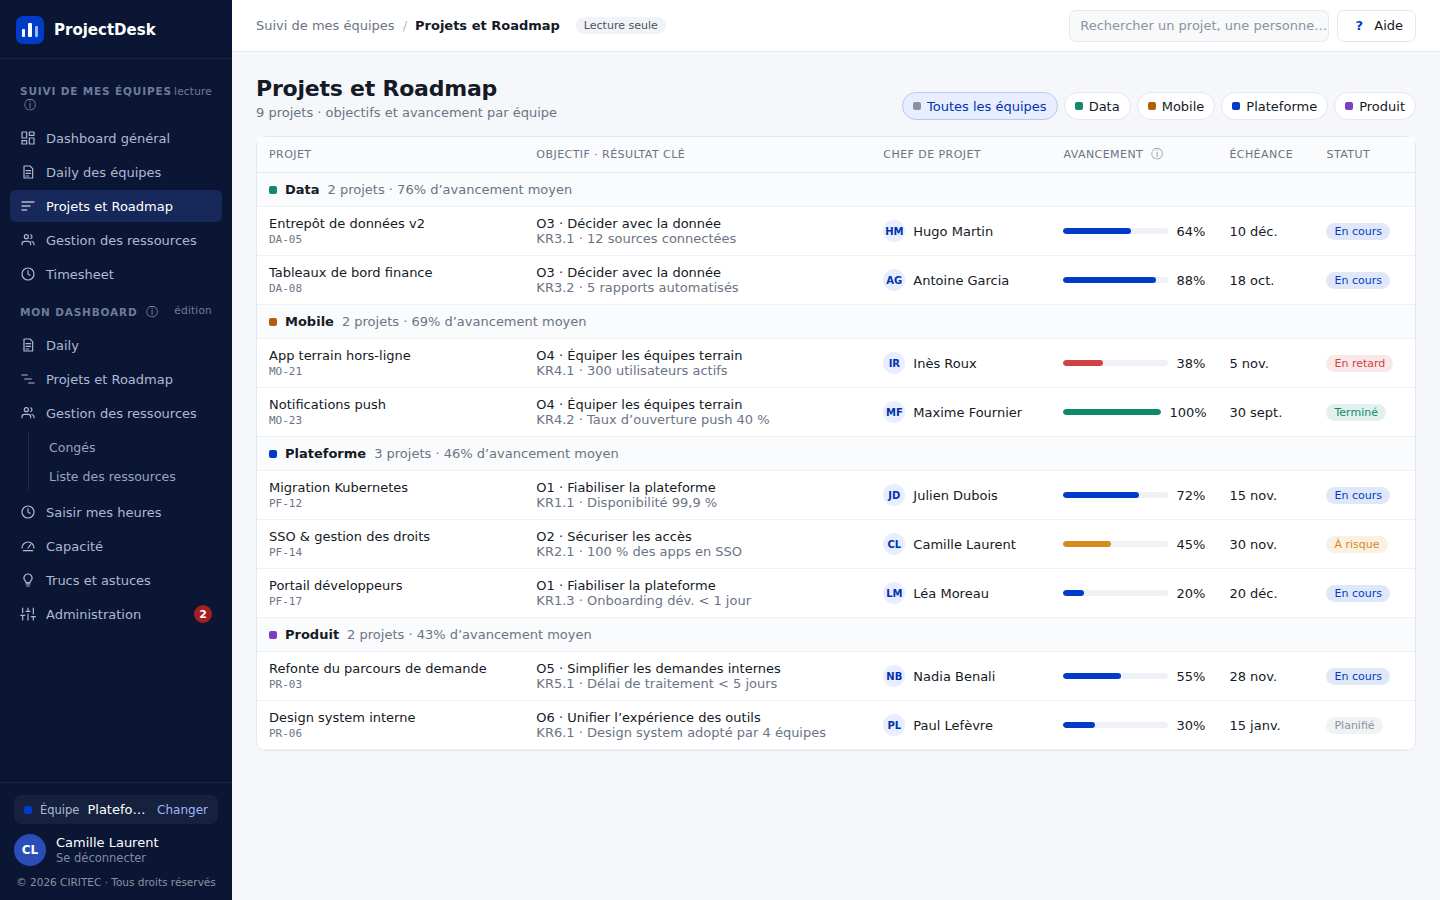
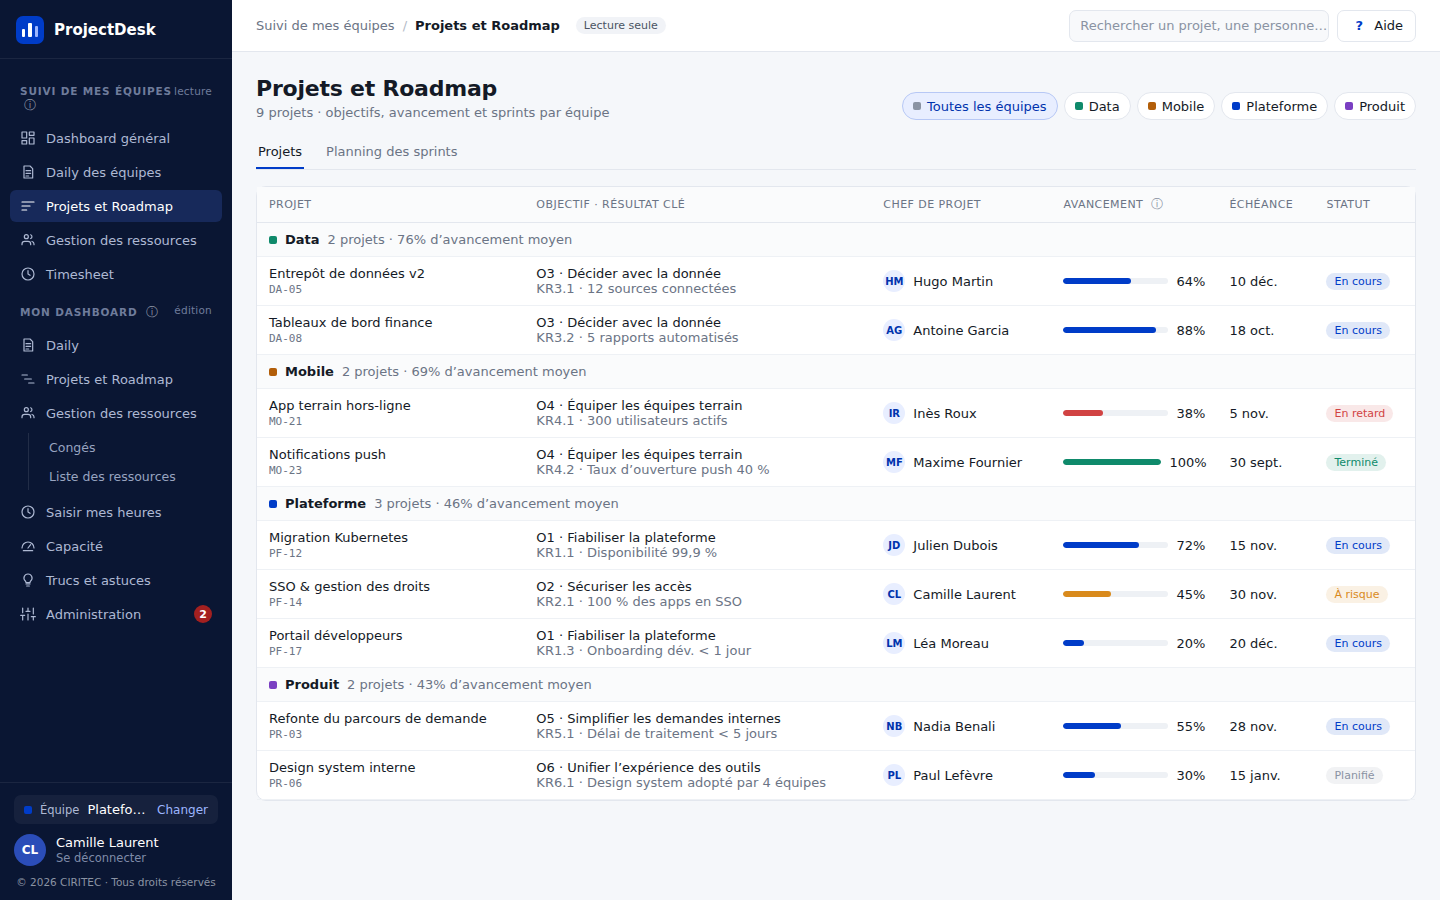
Planning des sprints dans Suivi › Projets et Roadmap (2.32)
Onglets Projets / Planning des sprints : sprints datés de chaque projet
sur une frise de 6 mois, sprint en cours en bleu, navigation par mois.
Lecture seule, base inchangée. Roadmap et Mon dashboard reportés ;
Planning des MEP en attente (source des données à décider).

Claude-Session: https://claude.ai/code/session_0187v8SY8uiT6dnWqjjqJYb6

diff --git a/app/js/ecrans/projets.js b/app/js/ecrans/projets.js
@@ -1,8 +1,9 @@
 /* ============================================================
    Suivi de mes équipes › Projets et Roadmap (maquette 02-gProjets.png) — lecture
-   Projets groupés par équipe, filtre par équipe (notion de ticket retirée
-   de l'application à la demande du porteur, 2026-09-27).
-   Un clic sur un projet ouvre le panneau de détail.
+   Onglets (porteur 2026-10-23, maquette roadmap-mep-sprints/) :
+   - Projets : projets groupés par équipe, filtre par équipe (notion de ticket retirée de
+     l'application à la demande du porteur, 2026-09-27) ; un clic ouvre le panneau de détail ;
+   - Planning des sprints : les sprints de chaque projet sur une frise de 6 mois (PlanningSprints).
    ============================================================ */
 'use strict';
 
@@ -10,30 +11,34 @@ Ecrans.projets = {
   titre: 'Projets et Roadmap',
   section: 'general',
   rendre() {
-    const esc = C.esc;
-    const u = ui('projets', { equipe: 'toutes' });
-    const { projets, equipes } = etat.d;
-
+    const esc = C.esc, u = ui('projets', { equipe: 'toutes', onglet: 'projets' });
     const puce = (id, nom, couleur) => `<button class="puce${u.equipe === id ? ' active' : ''}" data-action="filtrerEquipeProjets" data-id="${id}">
       ${C.pastille(couleur)}${esc(nom)}</button>`;
-    const filtres = puce('toutes', 'Toutes les équipes', COULEURS.pale) + equipes.map(e => puce(e.id, e.nom, e.couleur)).join('');
+    const filtres = puce('toutes', 'Toutes les équipes', COULEURS.pale) + etat.d.equipes.map(e => puce(e.id, e.nom, e.couleur)).join('');
+    // Projets des équipes filtrées (le filtre vaut pour les deux onglets)
+    const projets = etat.d.projets.filter(p => u.equipe === 'toutes' || p.equipeId === u.equipe);
+    const onglets = C.onglets([{ id: 'projets', libelle: 'Projets' }, { id: 'sprints', libelle: 'Planning des sprints' }], u.onglet, 'ongletProjets');
+    return `
+    <div class="ecran">
+      ${C.entete('Projets et Roadmap', `${etat.d.projets.length} projets · objectifs, avancement et sprints par équipe`, `<div class="puces">${filtres}</div>`)}
+      ${onglets}${u.onglet === 'sprints' ? PlanningSprints.rendre(projets) : this.tableau(u)}
+    </div>`;
+  },
 
-    const lignes = equipes.filter(e => u.equipe === 'toutes' || e.id === u.equipe).map(e => {
-      const siens = projets.filter(p => p.equipeId === e.id);
+  // Onglet Projets : tableau des projets groupés par équipe
+  tableau(u) {
+    const esc = C.esc;
+    const lignes = etat.d.equipes.filter(e => u.equipe === 'toutes' || e.id === u.equipe).map(e => {
+      const siens = etat.d.projets.filter(p => p.equipeId === e.id);
       if (!siens.length) return '';
       return `<tr class="groupe"><td colspan="6"><span class="ligne-flex">${C.pastille(e.couleur)}${esc(e.nom)}
           <span class="discret poids-normal">${siens.length} projets · ${Calculs.pourcent(Calculs.avancementMoyen(siens))} d’avancement moyen</span></span></td></tr>`
         + siens.map(p => this.ligneProjet(p)).join('');
     }).join('');
-
-    return `
-    <div class="ecran">
-      ${C.entete('Projets et Roadmap', `${projets.length} projets · objectifs et avancement par équipe`, `<div class="puces">${filtres}</div>`)}
-      <div class="carte"><table class="tableau">
+    return `<div class="carte"><table class="tableau">
         <thead><tr><th>Projet</th><th>Objectif · Résultat clé</th><th>Chef de projet</th><th>Avancement ${C.aide('avancementProjet')}</th>
           <th>Échéance</th><th>Statut</th></tr></thead>
-        <tbody>${lignes || `<tr><td colspan="6">${C.vide('Aucun projet.')}</td></tr>`}</tbody></table></div>
-    </div>`;
+        <tbody>${lignes || `<tr><td colspan="6">${C.vide('Aucun projet.')}</td></tr>`}</tbody></table></div>`;
   },
 
   // Ligne d'un projet (un clic ouvre le panneau de détail)
@@ -52,6 +57,68 @@ Ecrans.projets = {
   }
 };
 
+/* ---------- Onglet Planning des sprints (maquette roadmap-mep-sprints/3-planning-sprints.png) ----------
+   Une ligne par projet qui a des sprints sur la période, ses sprints en blocs « S12 » sur une frise de 6 mois ;
+   sprint en cours en bleu, trait vertical = aujourd'hui, version et dates au survol. Les sprints sont ceux saisis
+   dans Mon dashboard › Administration › Sprints (sprintsDuProjet, etat.js). Période : 6 mois à partir du mois
+   précédent le mois en cours, décalable mois par mois (‹ Aujourd'hui ›). */
+const PlanningSprints = {
+  NB_MOIS: 6,
+  // Premier jour de la période affichée (ISO) : choisi par les flèches, sinon le 1er du mois précédent
+  debut() {
+    const choisi = ui('planningSprints', {}).debut;
+    if (choisi) return choisi;
+    const d = Calculs.depuisIso(Calculs.aujourdhui());
+    return Calculs.versIso(new Date(d.getFullYear(), d.getMonth() - 1, 1));
+  },
+  // Période : début, fin (dernier jour du 6e mois), nombre de jours et en-tête des mois
+  periode() {
+    const d = Calculs.depuisIso(this.debut()), debut = this.debut();
+    const fin = Calculs.versIso(new Date(d.getFullYear(), d.getMonth() + this.NB_MOIS, 0)), total = Calculs.ecartJours(debut, fin) + 1;
+    const mois = Array.from({ length: this.NB_MOIS }, (_, i) => new Date(d.getFullYear(), d.getMonth() + i, 1)).map(m => {
+      const nbJours = new Date(m.getFullYear(), m.getMonth() + 1, 0).getDate();
+      return `<div style="width:${nbJours / total * 100}%">${Calculs.MOIS_COURTS[m.getMonth()]} ${String(m.getFullYear()).slice(2)}</div>`;
+    }).join('');
+    return { debut, fin, total, mois, position: iso => Math.max(0, Math.min(100, Calculs.ecartJours(debut, iso) / total * 100)) };
+  },
+  // Bloc d'un sprint : « S » + numéro de sprint, sprint en cours mis en avant, version et dates en infobulle
+  bloc(s, per, jour) {
+    const g = per.position(s.debut), l = Math.max(per.position(s.fin) - g, 0.5), numero = s.numeroSprint || s.numero;
+    const titre = `Sprint ${numero}${s.nom ? ' · ' + s.nom : ''} : ${Calculs.formatCourt(s.debut)} → ${Calculs.formatCourt(s.fin)}`;
+    return `<div class="gantt-sprint${s.debut <= jour && jour <= s.fin ? ' en-cours' : ''}" style="left:${g}%;width:${l}%"
+      title="${C.esc(titre)}">S${numero}</div>`;
+  },
+  // Navigation de période et rappel de l'endroit où les sprints se saisissent
+  navigation(per) {
+    return `<div class="ligne-flex entre encart-compact"><div class="ligne-flex">
+        <button class="btn" data-action="planningSprintsAujourdhui">Aujourd’hui</button>
+        <button class="btn" data-action="planningSprintsDecaler" data-sens="-1">‹</button>
+        <b>${Calculs.libelleMois(...this.anneeMois(per.debut))} → ${Calculs.libelleMois(...this.anneeMois(per.fin))}</b>
+        <button class="btn" data-action="planningSprintsDecaler" data-sens="1">›</button></div>
+      <span class="discret texte-12">Sprints saisis dans Mon dashboard › Administration › Sprints</span></div>`;
+  },
+  anneeMois(iso) { const d = Calculs.depuisIso(iso); return [d.getFullYear(), d.getMonth()]; },
+
+  rendre(projets) {
+    const per = this.periode(), jour = Calculs.aujourdhui();
+    const lignes = projets.map(p => ({ p, sprints: sprintsDuProjet(p.id).filter(s => s.debut <= per.fin && s.fin >= per.debut) }))
+      .filter(x => x.sprints.length).map(({ p, sprints }) => `<div class="gantt-ligne"><div><div>${C.code(p.code)} ${C.esc(p.nom)}</div></div>
+        <div class="gantt-piste">${jour >= per.debut && jour <= per.fin ? `<div class="gantt-jour" style="left:${per.position(jour)}%"></div>` : ''}
+          ${sprints.map(s => this.bloc(s, per, jour)).join('')}</div></div>`).join('');
+    return `${this.navigation(per)}
+      <div class="carte planning-sprints"><div class="gantt-mois"><div class="libelle gantt-titre-col">Projet</div><div class="mois">${per.mois}</div></div>
+        ${lignes || C.vide('Aucun sprint saisi sur cette période.')}</div>
+      <div class="discret texte-12"><span class="couleur-primaire">—</span> Aujourd’hui · en bleu : sprint en cours · survol : version et dates du sprint</div>`;
+  }
+};
+
 Object.assign(Actions, {
-  filtrerEquipeProjets: d => majUi('projets', { equipe: d.id })
+  filtrerEquipeProjets: d => majUi('projets', { equipe: d.id }),
+  ongletProjets: d => majUi('projets', { onglet: d.id }),
+  // Planning des sprints : décaler la période d'un mois, ou revenir à la période par défaut
+  planningSprintsDecaler(d) {
+    const m = Calculs.depuisIso(PlanningSprints.debut());
+    majUi('planningSprints', { debut: Calculs.versIso(new Date(m.getFullYear(), m.getMonth() + Number(d.sens), 1)) });
+  },
+  planningSprintsAujourdhui: () => majUi('planningSprints', { debut: null })
 });

diff --git a/app/index.html b/app/index.html
@@ -11,7 +11,7 @@
 <link href="https://fonts.googleapis.com/css2?family=IBM+Plex+Sans:wght@400;500;600;700&family=IBM+Plex+Mono:wght@400;500&display=swap" rel="stylesheet">
 <!-- ?v= : version des fichiers (= version du DAT), à changer à chaque livraison : force le navigateur
      à recharger le code au lieu de réutiliser une ancienne copie en mémoire. -->
-<link rel="stylesheet" href="css/theme.css?v=2.31">
+<link rel="stylesheet" href="css/theme.css?v=2.32">
 </head>
 <body>
   <!-- Toute l'interface est dessinée dans #app par js/coquille.js et js/ecrans/*.js -->
@@ -19,33 +19,33 @@
   <div id="notification" class="notification" role="status"></div>
 
   <!-- Ordre de chargement : configuration, outils, état, puis écrans (qui s'enregistrent dans Ecrans) -->
-  <script src="js/config.js?v=2.31"></script>
-  <script src="js/api.js?v=2.31"></script>
-  <script src="js/calculs.js?v=2.31"></script>
-  <script src="js/etat.js?v=2.31"></script>
-  <script src="js/composants.js?v=2.31"></script>
-  <script src="js/coquille.js?v=2.31"></script>
-  <script src="js/panneau-projet.js?v=2.31"></script>
-  <script src="js/modale.js?v=2.31"></script>
-  <script src="js/excel.js?v=2.31"></script>
-  <script src="js/roles.js?v=2.31"></script>
-  <script src="js/simulation.js?v=2.31"></script>
-  <script src="js/ecrans/connexion.js?v=2.31"></script>
-  <script src="js/ecrans/choix-equipe.js?v=2.31"></script>
-  <script src="js/ecrans/dashboard.js?v=2.31"></script>
-  <script src="js/ecrans/projets.js?v=2.31"></script>
-  <script src="js/ecrans/ressources.js?v=2.31"></script>
-  <script src="js/ecrans/administration.js?v=2.31"></script>
-  <script src="js/ecrans/timesheet.js?v=2.31"></script>
-  <script src="js/ecrans/daily-equipes.js?v=2.31"></script>
-  <script src="js/ecrans/daily.js?v=2.31"></script>
-  <script src="js/ecrans/mes-projets.js?v=2.31"></script>
-  <script src="js/ecrans/conges.js?v=2.31"></script>
-  <script src="js/ecrans/capacite.js?v=2.31"></script>
-  <script src="js/ecrans/liste-ressources.js?v=2.31"></script>
-  <script src="js/ecrans/mon-timesheet.js?v=2.31"></script>
-  <script src="js/ecrans/previsionnel.js?v=2.31"></script>
-  <script src="js/ecrans/mon-admin.js?v=2.31"></script>
-  <script src="js/ecrans/astuces.js?v=2.31"></script>
+  <script src="js/config.js?v=2.32"></script>
+  <script src="js/api.js?v=2.32"></script>
+  <script src="js/calculs.js?v=2.32"></script>
+  <script src="js/etat.js?v=2.32"></script>
+  <script src="js/composants.js?v=2.32"></script>
+  <script src="js/coquille.js?v=2.32"></script>
+  <script src="js/panneau-projet.js?v=2.32"></script>
+  <script src="js/modale.js?v=2.32"></script>
+  <script src="js/excel.js?v=2.32"></script>
+  <script src="js/roles.js?v=2.32"></script>
+  <script src="js/simulation.js?v=2.32"></script>
+  <script src="js/ecrans/connexion.js?v=2.32"></script>
+  <script src="js/ecrans/choix-equipe.js?v=2.32"></script>
+  <script src="js/ecrans/dashboard.js?v=2.32"></script>
+  <script src="js/ecrans/projets.js?v=2.32"></script>
+  <script src="js/ecrans/ressources.js?v=2.32"></script>
+  <script src="js/ecrans/administration.js?v=2.32"></script>
+  <script src="js/ecrans/timesheet.js?v=2.32"></script>
+  <script src="js/ecrans/daily-equipes.js?v=2.32"></script>
+  <script src="js/ecrans/daily.js?v=2.32"></script>
+  <script src="js/ecrans/mes-projets.js?v=2.32"></script>
+  <script src="js/ecrans/conges.js?v=2.32"></script>
+  <script src="js/ecrans/capacite.js?v=2.32"></script>
+  <script src="js/ecrans/liste-ressources.js?v=2.32"></script>
+  <script src="js/ecrans/mon-timesheet.js?v=2.32"></script>
+  <script src="js/ecrans/previsionnel.js?v=2.32"></script>
+  <script src="js/ecrans/mon-admin.js?v=2.32"></script>
+  <script src="js/ecrans/astuces.js?v=2.32"></script>
 </body>
 </html>

diff --git a/tests/parcours.js b/tests/parcours.js
@@ -108,6 +108,17 @@ const verifier = (nom, condition, detail = '') => { resultats.push({ nom, ok: !!
     await page.click('tr.cliquable[data-action="ouvrirProjet"]'); await page.waitForTimeout(200);
     verifier('Projets : panneau en lecture seule', (await texte()).includes('Vue « Suivi de mes équipes » en lecture seule'));
     await page.click('.fermer');
+    /* Projets et Roadmap › Planning des sprints (2026-10-23) : sprints datés de chaque projet sur une frise de 6 mois */
+    await page.evaluate(() => majUi('planningSprints', { debut: '2026-09-01' }));
+    await page.click('[data-action="ongletProjets"][data-id="sprints"]'); await page.waitForTimeout(150);
+    const blocsSprints = await page.$$eval('.planning-sprints .gantt-sprint', b => b.map(x => x.textContent.trim()));
+    await page.click('[data-action="planningSprintsDecaler"][data-sens="1"]'); await page.waitForTimeout(150);
+    const periodeSuivante = await page.textContent('.encart-compact b');
+    verifier('Projets et Roadmap › Planning des sprints : blocs S19 et S20 de PF-14, navigation par mois',
+      blocsSprints.includes('S19') && blocsSprints.includes('S20') && periodeSuivante.startsWith('octobre 2026'), blocsSprints.join(' ') + ' / ' + periodeSuivante);
+    await page.evaluate(() => majUi('planningSprints', { debut: '2026-09-01' })); await page.waitForTimeout(150);
+    await capture('04b-planning-sprints');
+    await page.click('[data-action="planningSprintsAujourdhui"]'); await page.click('[data-action="ongletProjets"][data-id="projets"]');
     await aller('ressources'); await page.click('[data-action="moisSuivant"]'); await capture('05-ressources');
     /* Gestion des ressources (2026-10-16) : onglets Calendrier / Liste des ressources, dates de naissance
        (jour et mois seulement à l'écran ; 🎂 dans le calendrier, rappel des anniversaires du mois) */
@@ -153,6 +164,7 @@ const verifier = (nom, condition, detail = '') => { resultats.push({ nom, ok: !!
       'filtrerDailyEquipes', 'dailyEquipesAujourdhui', 'dailyEquipesDecaler', 'filtrerPersonneDaily', 'ongletDailyEquipes',
       'choisirCaseDaily', 'fermerCaseDaily', 'decalerCaseDaily', 'vueCalendrier', 'projetCalendrier',
       'ongletRessources', 'filtrerEquipeRessources', 'filtrerStatutRessources', 'rechercherRessource',
+      'ongletProjets', 'planningSprintsDecaler', 'planningSprintsAujourdhui',
       'ouvrirExportDaily',    // export Excel : lecture seule (téléchargement de ce qui est affiché)
       'validerFeuille', 'renvoyerFeuille'];   // seule exception : validation des feuilles par le responsable (Timesheet)
     const ecritures = async () => page.$$eval('.contenu [data-action-change], .contenu [data-action-saisie], .contenu [data-action-envoi], .contenu [data-action]',
@@ -163,6 +175,8 @@ const verifier = (nom, condition, detail = '') => { resultats.push({ nom, ok: !!
       await aller(ecran);
       if (ecran === 'ressources') {
         for (const onglet of ['calendrier', 'liste']) { await page.click(`[data-action="ongletRessources"][data-id="${onglet}"]`); await page.waitForTimeout(150); interdites.push(...await ecritures()); }
+      } else if (ecran === 'projets') {
+        for (const onglet of ['sprints', 'projets']) { await page.click(`[data-action="ongletProjets"][data-id="${onglet}"]`); await page.waitForTimeout(150); interdites.push(...await ecritures()); }
 
       } else interdites.push(...await ecritures());
     }

diff --git a/app/css/theme.css b/app/css/theme.css
@@ -141,6 +141,12 @@ table.tableau { width: 100%; border-collapse: collapse; }
 .gantt-piste { position: relative; }
 .gantt-barre { position: absolute; top: 16px; height: 26px; border-radius: 5px; cursor: pointer; overflow: hidden; }
 .gantt-plein { height: 100%; color: #fff; font-weight: 600; font-size: 12px; padding: 5px 8px; white-space: nowrap; }
+.gantt-titre-col { padding: 9px 16px; margin: 0; }
+/* Planning des sprints (Suivi › Projets et Roadmap, 2026-10-23) : un bloc par sprint sur la piste du projet */
+.gantt-sprint { position: absolute; top: 18px; height: 22px; border-radius: 3px; background: var(--fond-entete);
+  border: 1px solid var(--bordure); font-size: 10px; line-height: 20px; text-align: center; color: var(--discret); overflow: hidden; white-space: nowrap; }
+.gantt-sprint.en-cours { background: var(--primaire); border-color: var(--primaire); color: #fff; font-weight: 600; }
+.couleur-primaire { color: var(--primaire); }
 .gantt-jour { position: absolute; top: 0; bottom: 0; width: 1px; background: var(--primaire); opacity: .5; }
 .gantt-mois { display: grid; grid-template-columns: 300px minmax(0, 1fr); border-bottom: 1px solid var(--bordure); background: var(--fond-entete); }
 .gantt-mois .mois { display: flex; } .gantt-mois .mois div { border-left: 1px solid var(--bordure-fine); padding: 9px 8px; font-size: 11px; text-transform: uppercase; letter-spacing: .04em; color: var(--discret); }

diff --git a/docs/DAT.md b/docs/DAT.md
@@ -146,6 +146,7 @@
 | 2.29    | 2026-10-22 | **Revue qualité** (skill `revue-qualite`) : code — 0 erreur, 0 avertissement ; restes supprimés après les dernières évolutions (paramètre `avecCreateur` de `Roles.matrice`, paramètre `modifiable` de `Administration.equipes`, filtre d'onglets du Plan de charge, commentaires et aide « réservé aux chefs de projet ») ; non-régression visuelle : aucune capture modifiée. Base (lecture seule, `db/audit/verifier-bdd.sql`) : structure et sécurité saines, toutes les tables et fonctions créées par une migration ; contrôle « daily hors affectation » corrigé pour les dailys importés `fiche:<id>` (165 faux positifs) — reste 1 daily de Cerine KERARMA sur IA-01 où elle n'est pas affectée (à juger par le porteur). Documents : § 3, § 9 et points de cohérence mis à jour ; skill : liste des rôles et règle de sauvegarde à jour. 140 contrôles |
 | 2.30    | 2026-10-22 | **Skills fusionnés dans `main`** (accord du porteur) : `next-skill-advisor` (déclenché par « fin de session »), `deploy-checklist`, `incident-response`, créés par une autre session sur la branche `claude/add-engineering-skills` et jamais fusionnés jusque-là (§ 11.3). Aucun code ni donnée modifiés hormis `?v=` |
 | 2.31    | 2026-10-23 | **Menu « Administration créateur »** (porteur : « je veux un menu administration et un menu administration créateur » ; choix : Simulation des rôles ; maquette `admin-createur/` validée « Go ») : écran `adminCreateur` (simulation.js), visible du créateur seul, sous Administration ; l'onglet « ★ Simulation des rôles » quitte Administration ; aides mises à jour. 141 contrôles (§ 3.3) |
+| 2.32    | 2026-10-23 | **Planning des sprints** dans Suivi de mes équipes › Projets et Roadmap (porteur : « un planning de MEP et un planning des sprints » ; maquette `roadmap-mep-sprints/` validée, Roadmap et Mon dashboard reportés) : onglets Projets / Planning des sprints (`PlanningSprints`, projets.js), lecture seule, base inchangée. Planning des MEP en attente (source des données à décider). 142 contrôles (§ 3.2) |
 | 1.44    | 2026-09-27 | Calcul type Scrum : formule déplacée dans une pop-in (bouton « Comment est-ce calculé ? » en haut à droite), avec un exemple chiffré sur CDO (membres, jours ouvrés, absences, cérémonies, focus) (§ 2.1, § 3.3) |
 
 ---
@@ -249,7 +250,7 @@ Captures de l'application : `docs/maquettes/etat-actuel/` (générées par `test
 | Écran | Fichier | Contenu | Capture |
 |-------|---------|---------|---------|
 | `dashboard` | `dashboard.js` | KPI, objectifs du trimestre (T1–T4), progression par trimestre et par équipe, projets à surveiller | `03-dashboard.png` |
-| `projets` | `projets.js` | Projets groupés par équipe, filtre d'équipe, panneau en lecture | `04-projets.png` |
+| `projets` | `projets.js` | Onglets **Projets** (projets groupés par équipe, panneau en lecture) et **Planning des sprints** (2.32, maquette `roadmap-mep-sprints/` : sprints datés de chaque projet — table `sprints_projet`, saisis dans Mon dashboard › Administration › Sprints — sur une frise de 6 mois, sprint en cours en bleu, navigation par mois) ; filtre d'équipe commun aux deux onglets. Roadmap et Planning des MEP : à venir | `04-projets.png`, `04b-planning-sprints.png` |
 | `ressources` | `ressources.js` | Deux onglets (2.17). **Calendrier** : calendrier mensuel des absences (composant `Calendrier`, personnes présentes sur le mois), 🎂 le jour de l'anniversaire d'une personne sans absence. **Liste des ressources** : annuaire de **toutes** les fiches — recherche par nom, filtres Équipe et Statut, colonnes Nom, Équipe, Poste, Projets (nom et rôle, 2.18), Capacité, **Statut** (Actif / Inactif dès qu'une date de fin est saisie, « fin le … », inactifs grisés en fin de liste), **Anniversaire** (jour et mois, 🎂 si c'est le mois en cours) et rappel « Anniversaires du mois » (personnes actives) | `05-ressources.png`, `05b-ressources-liste.png` |
 | `timesheet` | `timesheet.js` | Feuilles **du mois** par personne, toutes équipes (navigation `MoisTemps`) : projets, saisi / attendu, complétude, statut (`tableauFeuilles`). **Suivi et validation** (depuis 1.89, maquette `menus-general/`) : le responsable d'une équipe y **valide ou renvoie** les feuilles soumises de ses équipes (seule écriture de la section) ; indicateur « Feuilles à valider » | `07-timesheet.png`, `20-timesheet-validation.png` |
 | `dailyEquipes` | `daily-equipes.js` | **Daily des équipes à la semaine** (maquettes `daily-equipes-design/retenu/`, depuis 2.14) : projets dont je peux lire le daily (`peutLireDailyProjet` = règle `peut_lire_daily_projet` en base : affecté(e) au projet ; responsable de l'unité du projet ou d'une unité parente ; administrateur) ; semaine du lundi au vendredi ouvrés (`joursSemaine`), « Cette semaine », ‹ › par semaine. Onglet **Fil des dailys** (droit `onglet_daily_fil`) : dailys groupés par jour (plus récent d'abord) avec l'heure d'enregistrement et les blocages en pastilles, filtres projets / personnes (compteurs), **Blocages ouverts** (« depuis N j ») et résumé du jour. Onglet **Synthèse de l'équipe** (droit `onglet_daily_synthese` ; au départ administrateurs, direction et responsables) : indicateurs de la semaine, carte membre × jour (✓ daily, ⚠ blocage, — manquant, 🌴 absent ; « sans compte » compte comme manquant), clic sur une case → panneau de lecture. **Exporter en Excel** (maquette `export-daily-excel/`) : période (raccourcis ou dates libres, un an maximum) et projets cochés parmi ceux que je peux lire ; onglet « Daily » = une ligne par membre attendu, projet et jour ouvré (Date, Code projet, Projet, Personne, Statut Renseigné / Absent(e) / Manquant / Sans compte, Hier, Aujourd'hui, Blocages, Absence), onglet « Blocages » en option ; notes lues en base pour la période (la RLS ne renvoie que les notes lisibles). Lecture seule : rien n'est écrit | `17-daily-equipes.png`, `33-daily-synthese.png`, `22-export-daily-excel.png` |
@@ -510,7 +511,7 @@ refusée sur `referentiels` et `administrateurs` (usurpation).
 | Outil | Contenu |
 |-------|---------|
 | `tests/serveur-simule.js` | Neon Auth (dont Google simulé) + Data API simulés en mémoire, identifiants numérotés (et non aléatoires) pour des captures reproductibles, données de la maquette (comptes `camille@test.fr` administratrice/owner, `thomas@test.fr` membre, `elodie@test.fr` demandeuse, `admin@test.fr` administratrice sans équipe ; mot de passe `motdepasse`) |
-| `tests/parcours.js` | Parcours Playwright de bout en bout (141 contrôles, dont « Suivi de mes équipes en lecture seule », l'aller-retour Google simulé, le parcours administrateur sans équipe, le daily des équipes, l'export Excel du daily, le plan de charge et le board des ressources) + captures `docs/maquettes/etat-actuel/` |
+| `tests/parcours.js` | Parcours Playwright de bout en bout (142 contrôles, dont « Suivi de mes équipes en lecture seule », l'aller-retour Google simulé, le parcours administrateur sans équipe, le daily des équipes, l'export Excel du daily, le plan de charge et le board des ressources) + captures `docs/maquettes/etat-actuel/` |
 | `scripts/verifier-docs.js` | Cohérence documentation ↔ code après chaque commit (§ 11) |
 
 Les règles RLS ne sont pas simulées : elles sont vérifiées en base et lors de la recette réelle.
